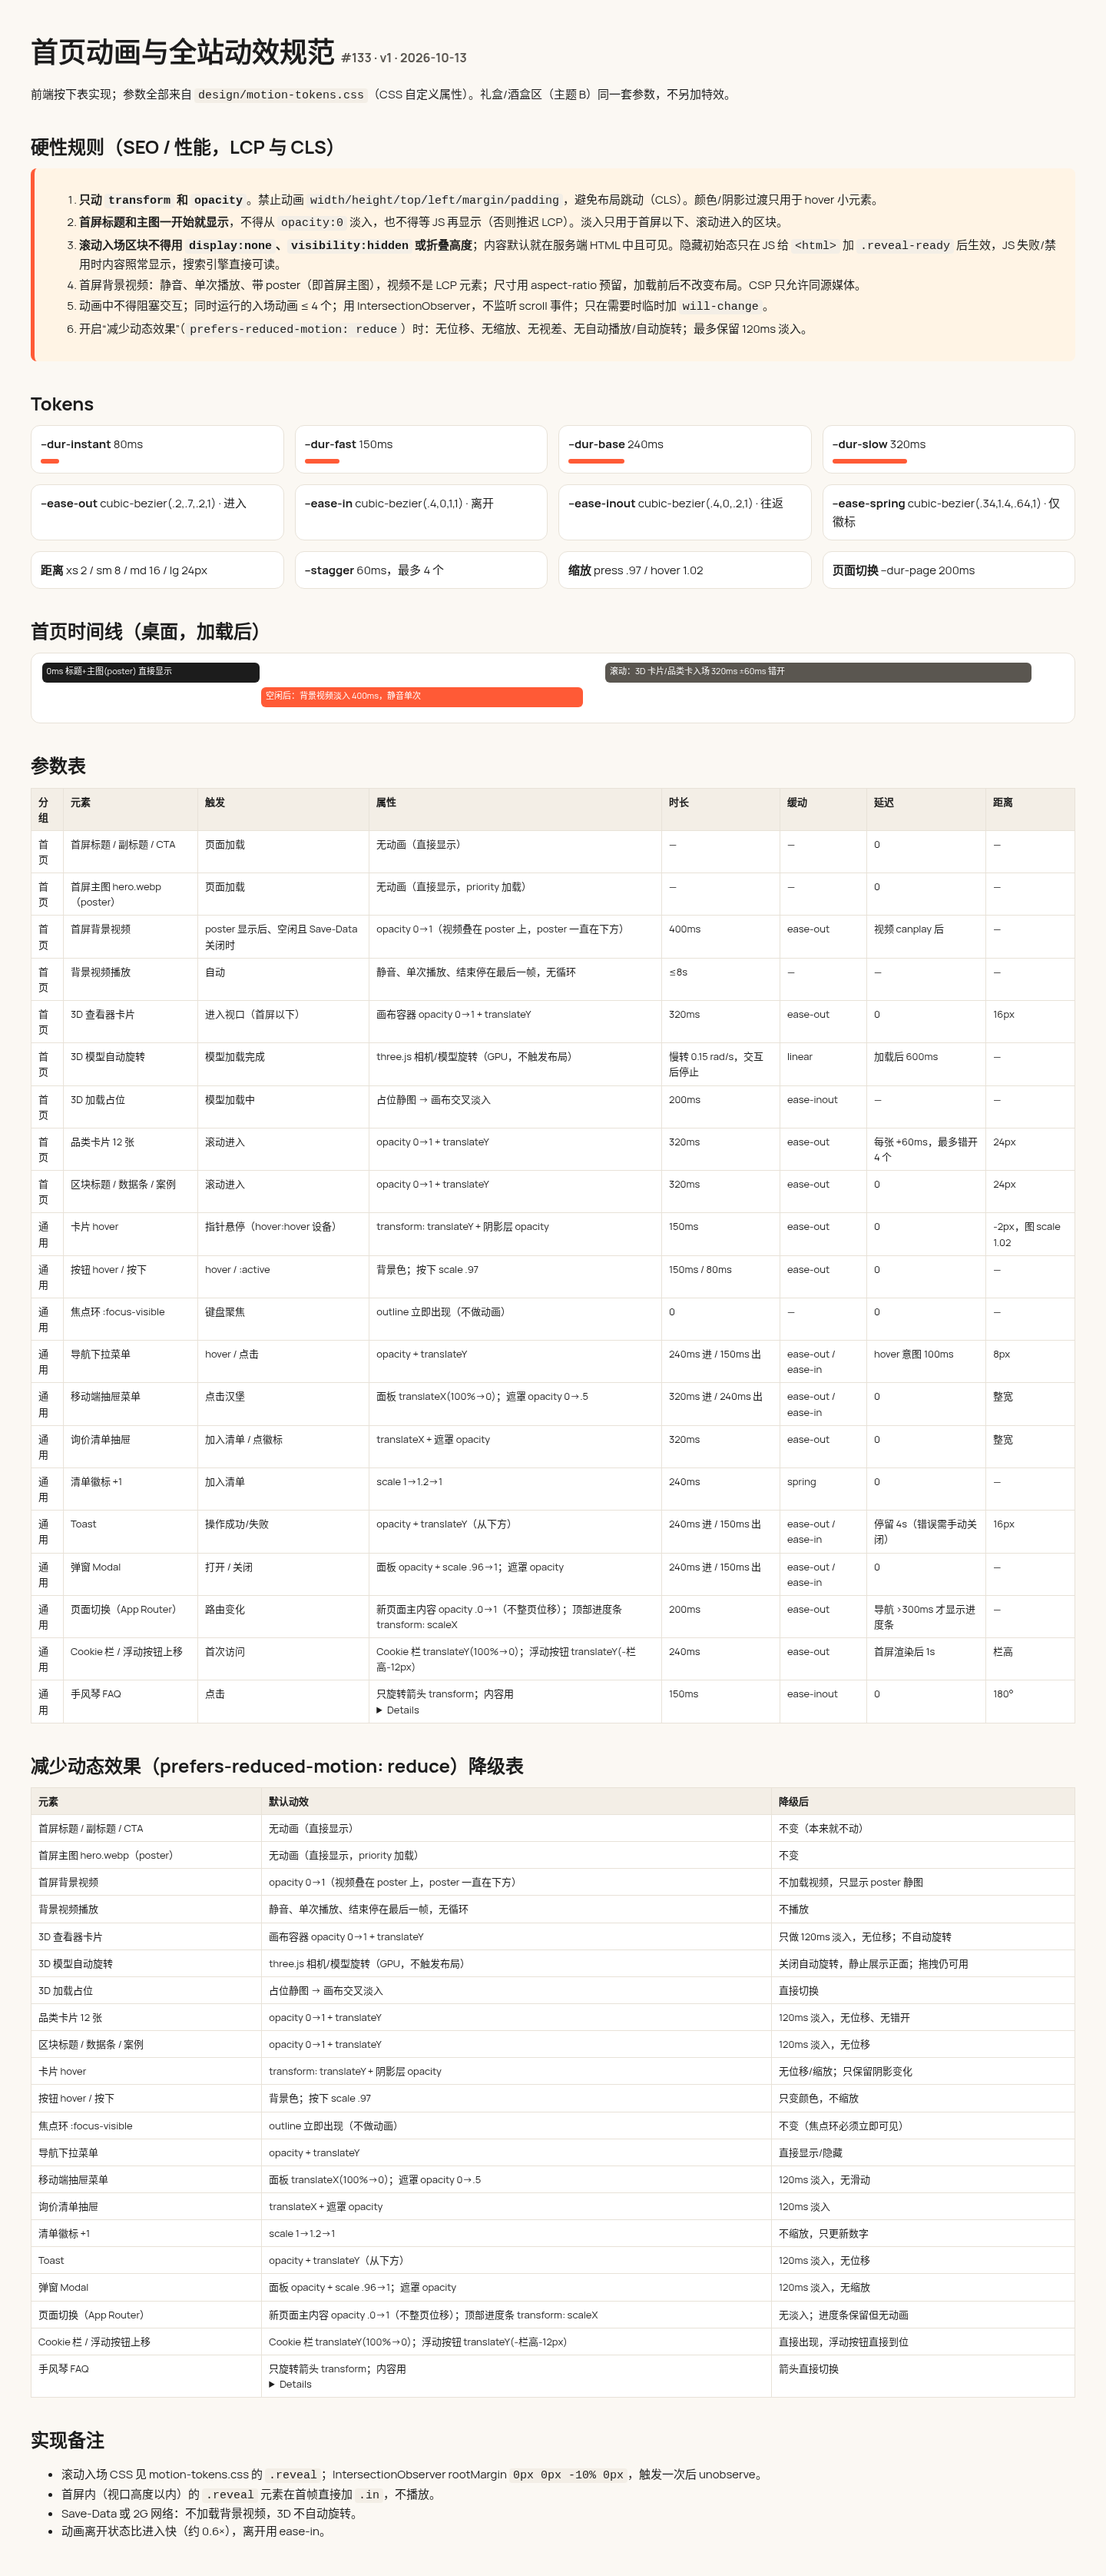
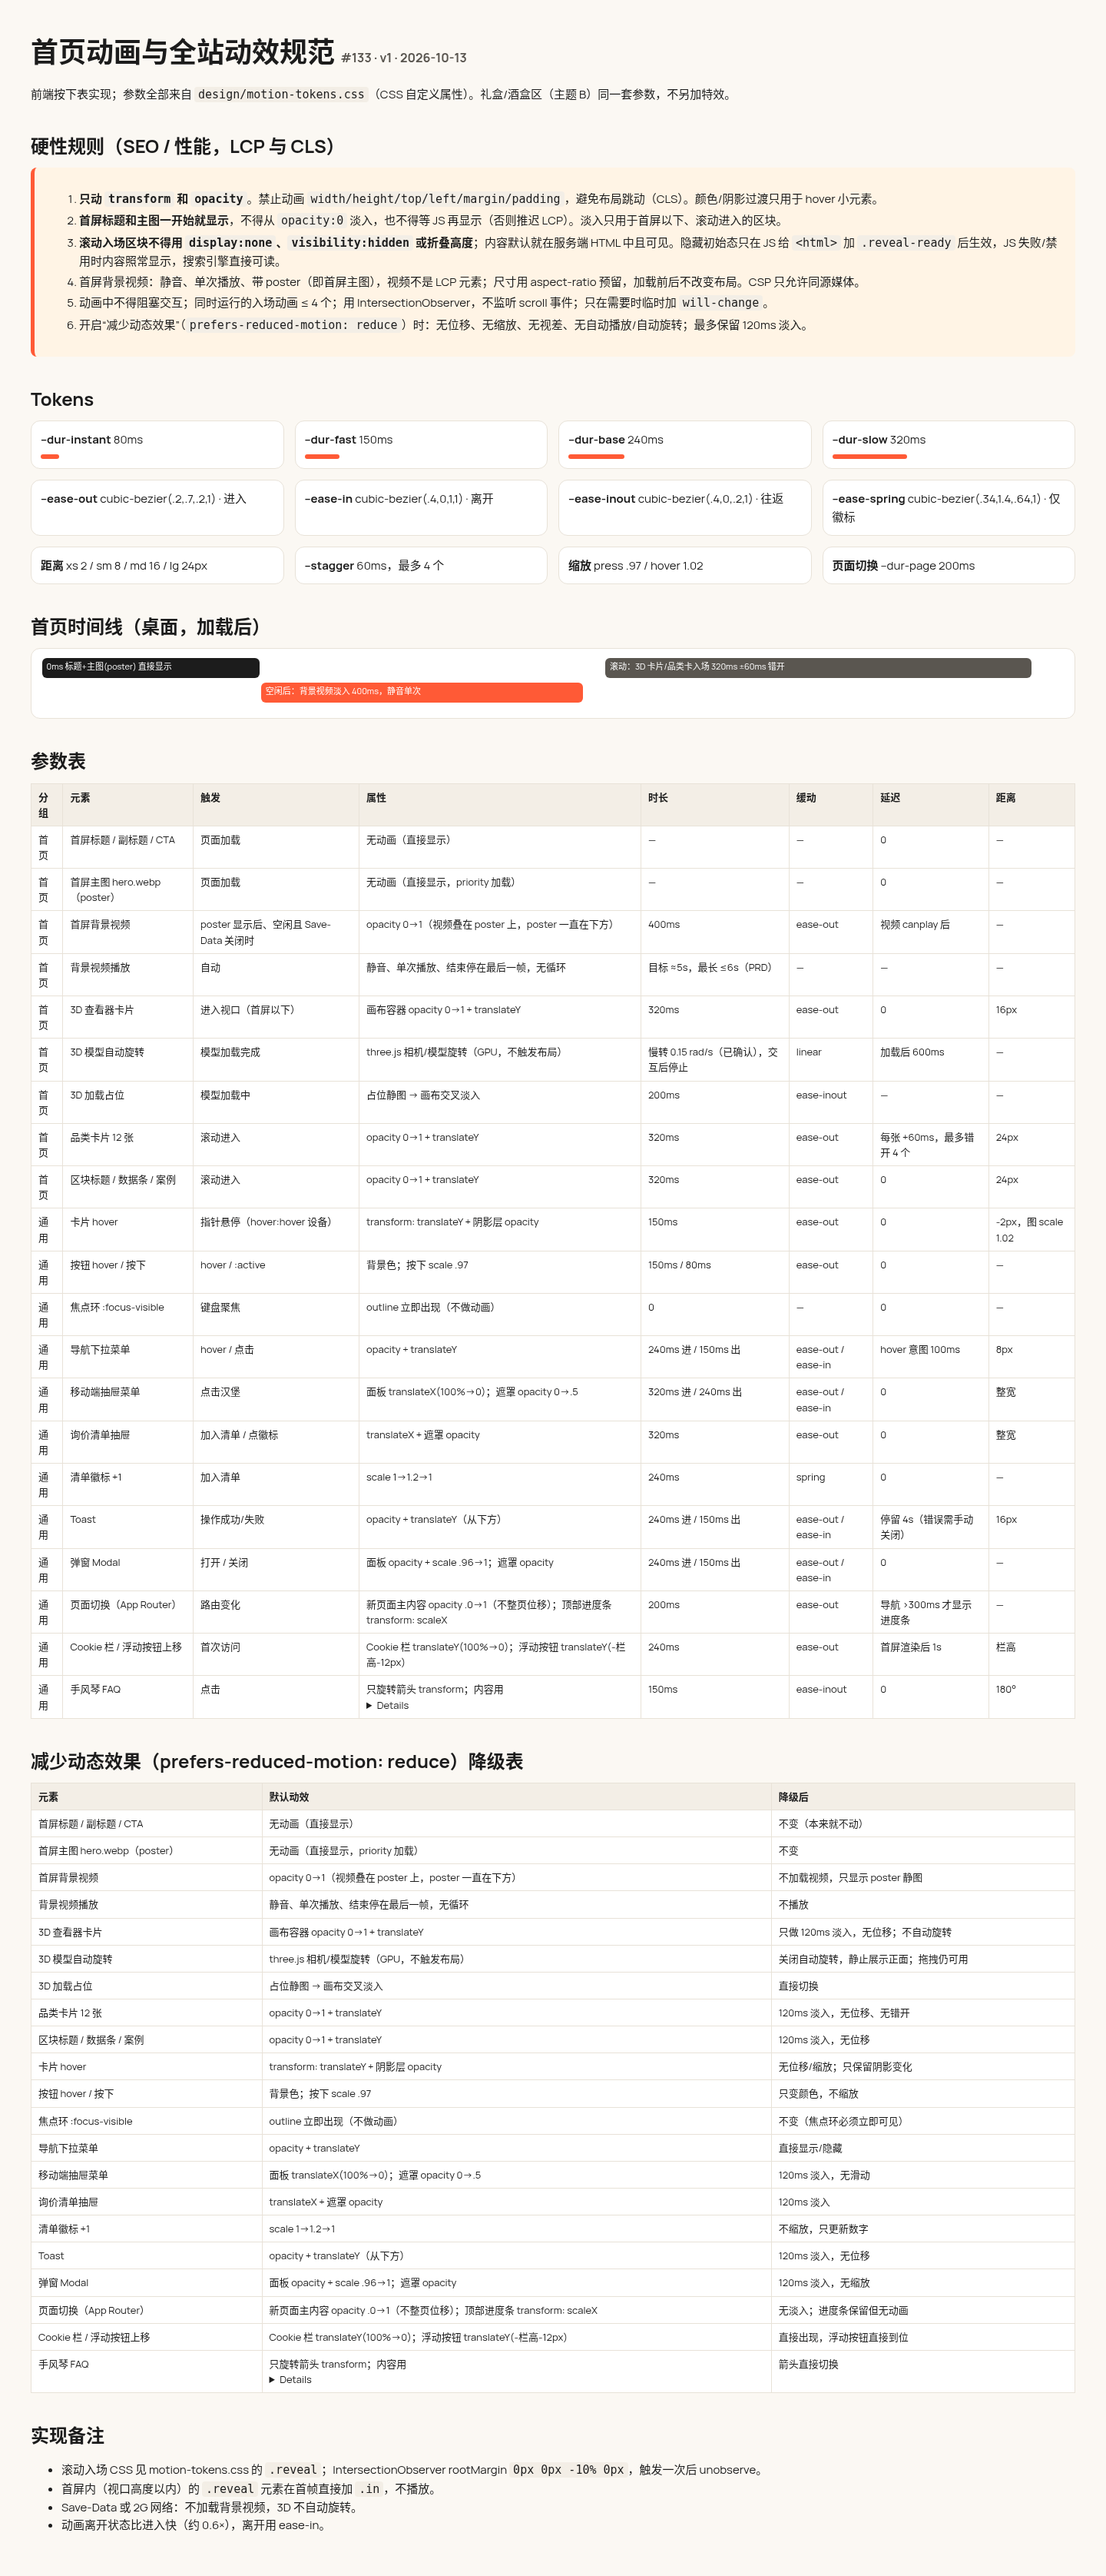
design(#133): bg video target ~5s max 6s per PRD; 3D auto-rotate 0.15 rad/s confirmed

diff --git a/design/motion-spec.html b/design/motion-spec.html
@@ -27,7 +27,7 @@ code{background:#F3EEE6;padding:1px 5px;border-radius:4px}.grid{display:grid;gri
 <div class="seg" style="left:1%;width:20%;background:#1C1C1C">0ms 标题+主图(poster) 直接显示</div>
 <div class="seg" style="left:22%;width:30%;top:44px;background:#FF5A36">空闲后：背景视频淡入 400ms，静音单次</div>
 <div class="seg" style="left:55%;width:40%;background:#5A5650">滚动：3D 卡片/品类卡入场 320ms ±60ms 错开</div></div>
-<h2>参数表</h2><table><tr><th>分组</th><th>元素</th><th>触发</th><th>属性</th><th>时长</th><th>缓动</th><th>延迟</th><th>距离</th></tr><tr><td>首页</td><td>首屏标题 / 副标题 / CTA</td><td>页面加载</td><td>无动画（直接显示）</td><td>—</td><td>—</td><td>0</td><td>—</td></tr><tr><td>首页</td><td>首屏主图 hero.webp（poster）</td><td>页面加载</td><td>无动画（直接显示，priority 加载）</td><td>—</td><td>—</td><td>0</td><td>—</td></tr><tr><td>首页</td><td>首屏背景视频</td><td>poster 显示后、空闲且 Save-Data 关闭时</td><td>opacity 0→1（视频叠在 poster 上，poster 一直在下方）</td><td>400ms</td><td>ease-out</td><td>视频 canplay 后</td><td>—</td></tr><tr><td>首页</td><td>背景视频播放</td><td>自动</td><td>静音、单次播放、结束停在最后一帧，无循环</td><td>≤8s</td><td>—</td><td>—</td><td>—</td></tr><tr><td>首页</td><td>3D 查看器卡片</td><td>进入视口（首屏以下）</td><td>画布容器 opacity 0→1 + translateY</td><td>320ms</td><td>ease-out</td><td>0</td><td>16px</td></tr><tr><td>首页</td><td>3D 模型自动旋转</td><td>模型加载完成</td><td>three.js 相机/模型旋转（GPU，不触发布局）</td><td>慢转 0.15 rad/s，交互后停止</td><td>linear</td><td>加载后 600ms</td><td>—</td></tr><tr><td>首页</td><td>3D 加载占位</td><td>模型加载中</td><td>占位静图 → 画布交叉淡入</td><td>200ms</td><td>ease-inout</td><td>—</td><td>—</td></tr><tr><td>首页</td><td>品类卡片 12 张</td><td>滚动进入</td><td>opacity 0→1 + translateY</td><td>320ms</td><td>ease-out</td><td>每张 +60ms，最多错开 4 个</td><td>24px</td></tr><tr><td>首页</td><td>区块标题 / 数据条 / 案例</td><td>滚动进入</td><td>opacity 0→1 + translateY</td><td>320ms</td><td>ease-out</td><td>0</td><td>24px</td></tr><tr><td>通用</td><td>卡片 hover</td><td>指针悬停（hover:hover 设备）</td><td>transform: translateY + 阴影层 opacity</td><td>150ms</td><td>ease-out</td><td>0</td><td>-2px，图 scale 1.02</td></tr><tr><td>通用</td><td>按钮 hover / 按下</td><td>hover / :active</td><td>背景色；按下 scale .97</td><td>150ms / 80ms</td><td>ease-out</td><td>0</td><td>—</td></tr><tr><td>通用</td><td>焦点环 :focus-visible</td><td>键盘聚焦</td><td>outline 立即出现（不做动画）</td><td>0</td><td>—</td><td>0</td><td>—</td></tr><tr><td>通用</td><td>导航下拉菜单</td><td>hover / 点击</td><td>opacity + translateY</td><td>240ms 进 / 150ms 出</td><td>ease-out / ease-in</td><td>hover 意图 100ms</td><td>8px</td></tr><tr><td>通用</td><td>移动端抽屉菜单</td><td>点击汉堡</td><td>面板 translateX(100%→0)；遮罩 opacity 0→.5</td><td>320ms 进 / 240ms 出</td><td>ease-out / ease-in</td><td>0</td><td>整宽</td></tr><tr><td>通用</td><td>询价清单抽屉</td><td>加入清单 / 点徽标</td><td>translateX + 遮罩 opacity</td><td>320ms</td><td>ease-out</td><td>0</td><td>整宽</td></tr><tr><td>通用</td><td>清单徽标 +1</td><td>加入清单</td><td>scale 1→1.2→1</td><td>240ms</td><td>spring</td><td>0</td><td>—</td></tr><tr><td>通用</td><td>Toast</td><td>操作成功/失败</td><td>opacity + translateY（从下方）</td><td>240ms 进 / 150ms 出</td><td>ease-out / ease-in</td><td>停留 4s（错误需手动关闭）</td><td>16px</td></tr><tr><td>通用</td><td>弹窗 Modal</td><td>打开 / 关闭</td><td>面板 opacity + scale .96→1；遮罩 opacity</td><td>240ms 进 / 150ms 出</td><td>ease-out / ease-in</td><td>0</td><td>—</td></tr><tr><td>通用</td><td>页面切换（App Router）</td><td>路由变化</td><td>新页面主内容 opacity .0→1（不整页位移）；顶部进度条 transform: scaleX</td><td>200ms</td><td>ease-out</td><td>导航 >300ms 才显示进度条</td><td>—</td></tr><tr><td>通用</td><td>Cookie 栏 / 浮动按钮上移</td><td>首次访问</td><td>Cookie 栏 translateY(100%→0)；浮动按钮 translateY(-栏高-12px)</td><td>240ms</td><td>ease-out</td><td>首屏渲染后 1s</td><td>栏高</td></tr><tr><td>通用</td><td>手风琴 FAQ</td><td>点击</td><td>只旋转箭头 transform；内容用 <details>，高度不做动画</td><td>150ms</td><td>ease-inout</td><td>0</td><td>180°</td></tr></table>
+<h2>参数表</h2><table><tr><th>分组</th><th>元素</th><th>触发</th><th>属性</th><th>时长</th><th>缓动</th><th>延迟</th><th>距离</th></tr><tr><td>首页</td><td>首屏标题 / 副标题 / CTA</td><td>页面加载</td><td>无动画（直接显示）</td><td>—</td><td>—</td><td>0</td><td>—</td></tr><tr><td>首页</td><td>首屏主图 hero.webp（poster）</td><td>页面加载</td><td>无动画（直接显示，priority 加载）</td><td>—</td><td>—</td><td>0</td><td>—</td></tr><tr><td>首页</td><td>首屏背景视频</td><td>poster 显示后、空闲且 Save-Data 关闭时</td><td>opacity 0→1（视频叠在 poster 上，poster 一直在下方）</td><td>400ms</td><td>ease-out</td><td>视频 canplay 后</td><td>—</td></tr><tr><td>首页</td><td>背景视频播放</td><td>自动</td><td>静音、单次播放、结束停在最后一帧，无循环</td><td>目标 ≈5s，最长 ≤6s（PRD）</td><td>—</td><td>—</td><td>—</td></tr><tr><td>首页</td><td>3D 查看器卡片</td><td>进入视口（首屏以下）</td><td>画布容器 opacity 0→1 + translateY</td><td>320ms</td><td>ease-out</td><td>0</td><td>16px</td></tr><tr><td>首页</td><td>3D 模型自动旋转</td><td>模型加载完成</td><td>three.js 相机/模型旋转（GPU，不触发布局）</td><td>慢转 0.15 rad/s（已确认），交互后停止</td><td>linear</td><td>加载后 600ms</td><td>—</td></tr><tr><td>首页</td><td>3D 加载占位</td><td>模型加载中</td><td>占位静图 → 画布交叉淡入</td><td>200ms</td><td>ease-inout</td><td>—</td><td>—</td></tr><tr><td>首页</td><td>品类卡片 12 张</td><td>滚动进入</td><td>opacity 0→1 + translateY</td><td>320ms</td><td>ease-out</td><td>每张 +60ms，最多错开 4 个</td><td>24px</td></tr><tr><td>首页</td><td>区块标题 / 数据条 / 案例</td><td>滚动进入</td><td>opacity 0→1 + translateY</td><td>320ms</td><td>ease-out</td><td>0</td><td>24px</td></tr><tr><td>通用</td><td>卡片 hover</td><td>指针悬停（hover:hover 设备）</td><td>transform: translateY + 阴影层 opacity</td><td>150ms</td><td>ease-out</td><td>0</td><td>-2px，图 scale 1.02</td></tr><tr><td>通用</td><td>按钮 hover / 按下</td><td>hover / :active</td><td>背景色；按下 scale .97</td><td>150ms / 80ms</td><td>ease-out</td><td>0</td><td>—</td></tr><tr><td>通用</td><td>焦点环 :focus-visible</td><td>键盘聚焦</td><td>outline 立即出现（不做动画）</td><td>0</td><td>—</td><td>0</td><td>—</td></tr><tr><td>通用</td><td>导航下拉菜单</td><td>hover / 点击</td><td>opacity + translateY</td><td>240ms 进 / 150ms 出</td><td>ease-out / ease-in</td><td>hover 意图 100ms</td><td>8px</td></tr><tr><td>通用</td><td>移动端抽屉菜单</td><td>点击汉堡</td><td>面板 translateX(100%→0)；遮罩 opacity 0→.5</td><td>320ms 进 / 240ms 出</td><td>ease-out / ease-in</td><td>0</td><td>整宽</td></tr><tr><td>通用</td><td>询价清单抽屉</td><td>加入清单 / 点徽标</td><td>translateX + 遮罩 opacity</td><td>320ms</td><td>ease-out</td><td>0</td><td>整宽</td></tr><tr><td>通用</td><td>清单徽标 +1</td><td>加入清单</td><td>scale 1→1.2→1</td><td>240ms</td><td>spring</td><td>0</td><td>—</td></tr><tr><td>通用</td><td>Toast</td><td>操作成功/失败</td><td>opacity + translateY（从下方）</td><td>240ms 进 / 150ms 出</td><td>ease-out / ease-in</td><td>停留 4s（错误需手动关闭）</td><td>16px</td></tr><tr><td>通用</td><td>弹窗 Modal</td><td>打开 / 关闭</td><td>面板 opacity + scale .96→1；遮罩 opacity</td><td>240ms 进 / 150ms 出</td><td>ease-out / ease-in</td><td>0</td><td>—</td></tr><tr><td>通用</td><td>页面切换（App Router）</td><td>路由变化</td><td>新页面主内容 opacity .0→1（不整页位移）；顶部进度条 transform: scaleX</td><td>200ms</td><td>ease-out</td><td>导航 >300ms 才显示进度条</td><td>—</td></tr><tr><td>通用</td><td>Cookie 栏 / 浮动按钮上移</td><td>首次访问</td><td>Cookie 栏 translateY(100%→0)；浮动按钮 translateY(-栏高-12px)</td><td>240ms</td><td>ease-out</td><td>首屏渲染后 1s</td><td>栏高</td></tr><tr><td>通用</td><td>手风琴 FAQ</td><td>点击</td><td>只旋转箭头 transform；内容用 <details>，高度不做动画</td><td>150ms</td><td>ease-inout</td><td>0</td><td>180°</td></tr></table>
 <h2>减少动态效果（prefers-reduced-motion: reduce）降级表</h2><table><tr><th>元素</th><th>默认动效</th><th>降级后</th></tr><tr><td>首屏标题 / 副标题 / CTA</td><td>无动画（直接显示）</td><td>不变（本来就不动）</td></tr><tr><td>首屏主图 hero.webp（poster）</td><td>无动画（直接显示，priority 加载）</td><td>不变</td></tr><tr><td>首屏背景视频</td><td>opacity 0→1（视频叠在 poster 上，poster 一直在下方）</td><td>不加载视频，只显示 poster 静图</td></tr><tr><td>背景视频播放</td><td>静音、单次播放、结束停在最后一帧，无循环</td><td>不播放</td></tr><tr><td>3D 查看器卡片</td><td>画布容器 opacity 0→1 + translateY</td><td>只做 120ms 淡入，无位移；不自动旋转</td></tr><tr><td>3D 模型自动旋转</td><td>three.js 相机/模型旋转（GPU，不触发布局）</td><td>关闭自动旋转，静止展示正面；拖拽仍可用</td></tr><tr><td>3D 加载占位</td><td>占位静图 → 画布交叉淡入</td><td>直接切换</td></tr><tr><td>品类卡片 12 张</td><td>opacity 0→1 + translateY</td><td>120ms 淡入，无位移、无错开</td></tr><tr><td>区块标题 / 数据条 / 案例</td><td>opacity 0→1 + translateY</td><td>120ms 淡入，无位移</td></tr><tr><td>卡片 hover</td><td>transform: translateY + 阴影层 opacity</td><td>无位移/缩放；只保留阴影变化</td></tr><tr><td>按钮 hover / 按下</td><td>背景色；按下 scale .97</td><td>只变颜色，不缩放</td></tr><tr><td>焦点环 :focus-visible</td><td>outline 立即出现（不做动画）</td><td>不变（焦点环必须立即可见）</td></tr><tr><td>导航下拉菜单</td><td>opacity + translateY</td><td>直接显示/隐藏</td></tr><tr><td>移动端抽屉菜单</td><td>面板 translateX(100%→0)；遮罩 opacity 0→.5</td><td>120ms 淡入，无滑动</td></tr><tr><td>询价清单抽屉</td><td>translateX + 遮罩 opacity</td><td>120ms 淡入</td></tr><tr><td>清单徽标 +1</td><td>scale 1→1.2→1</td><td>不缩放，只更新数字</td></tr><tr><td>Toast</td><td>opacity + translateY（从下方）</td><td>120ms 淡入，无位移</td></tr><tr><td>弹窗 Modal</td><td>面板 opacity + scale .96→1；遮罩 opacity</td><td>120ms 淡入，无缩放</td></tr><tr><td>页面切换（App Router）</td><td>新页面主内容 opacity .0→1（不整页位移）；顶部进度条 transform: scaleX</td><td>无淡入；进度条保留但无动画</td></tr><tr><td>Cookie 栏 / 浮动按钮上移</td><td>Cookie 栏 translateY(100%→0)；浮动按钮 translateY(-栏高-12px)</td><td>直接出现，浮动按钮直接到位</td></tr><tr><td>手风琴 FAQ</td><td>只旋转箭头 transform；内容用 <details>，高度不做动画</td><td>箭头直接切换</td></tr></table>
 <h2>实现备注</h2><ul><li>滚动入场 CSS 见 motion-tokens.css 的 <code>.reveal</code>；IntersectionObserver rootMargin <code>0px 0px -10% 0px</code>，触发一次后 unobserve。</li>
 <li>首屏内（视口高度以内）的 <code>.reveal</code> 元素在首帧直接加 <code>.in</code>，不播放。</li><li>Save-Data 或 2G 网络：不加载背景视频，3D 不自动旋转。</li>
